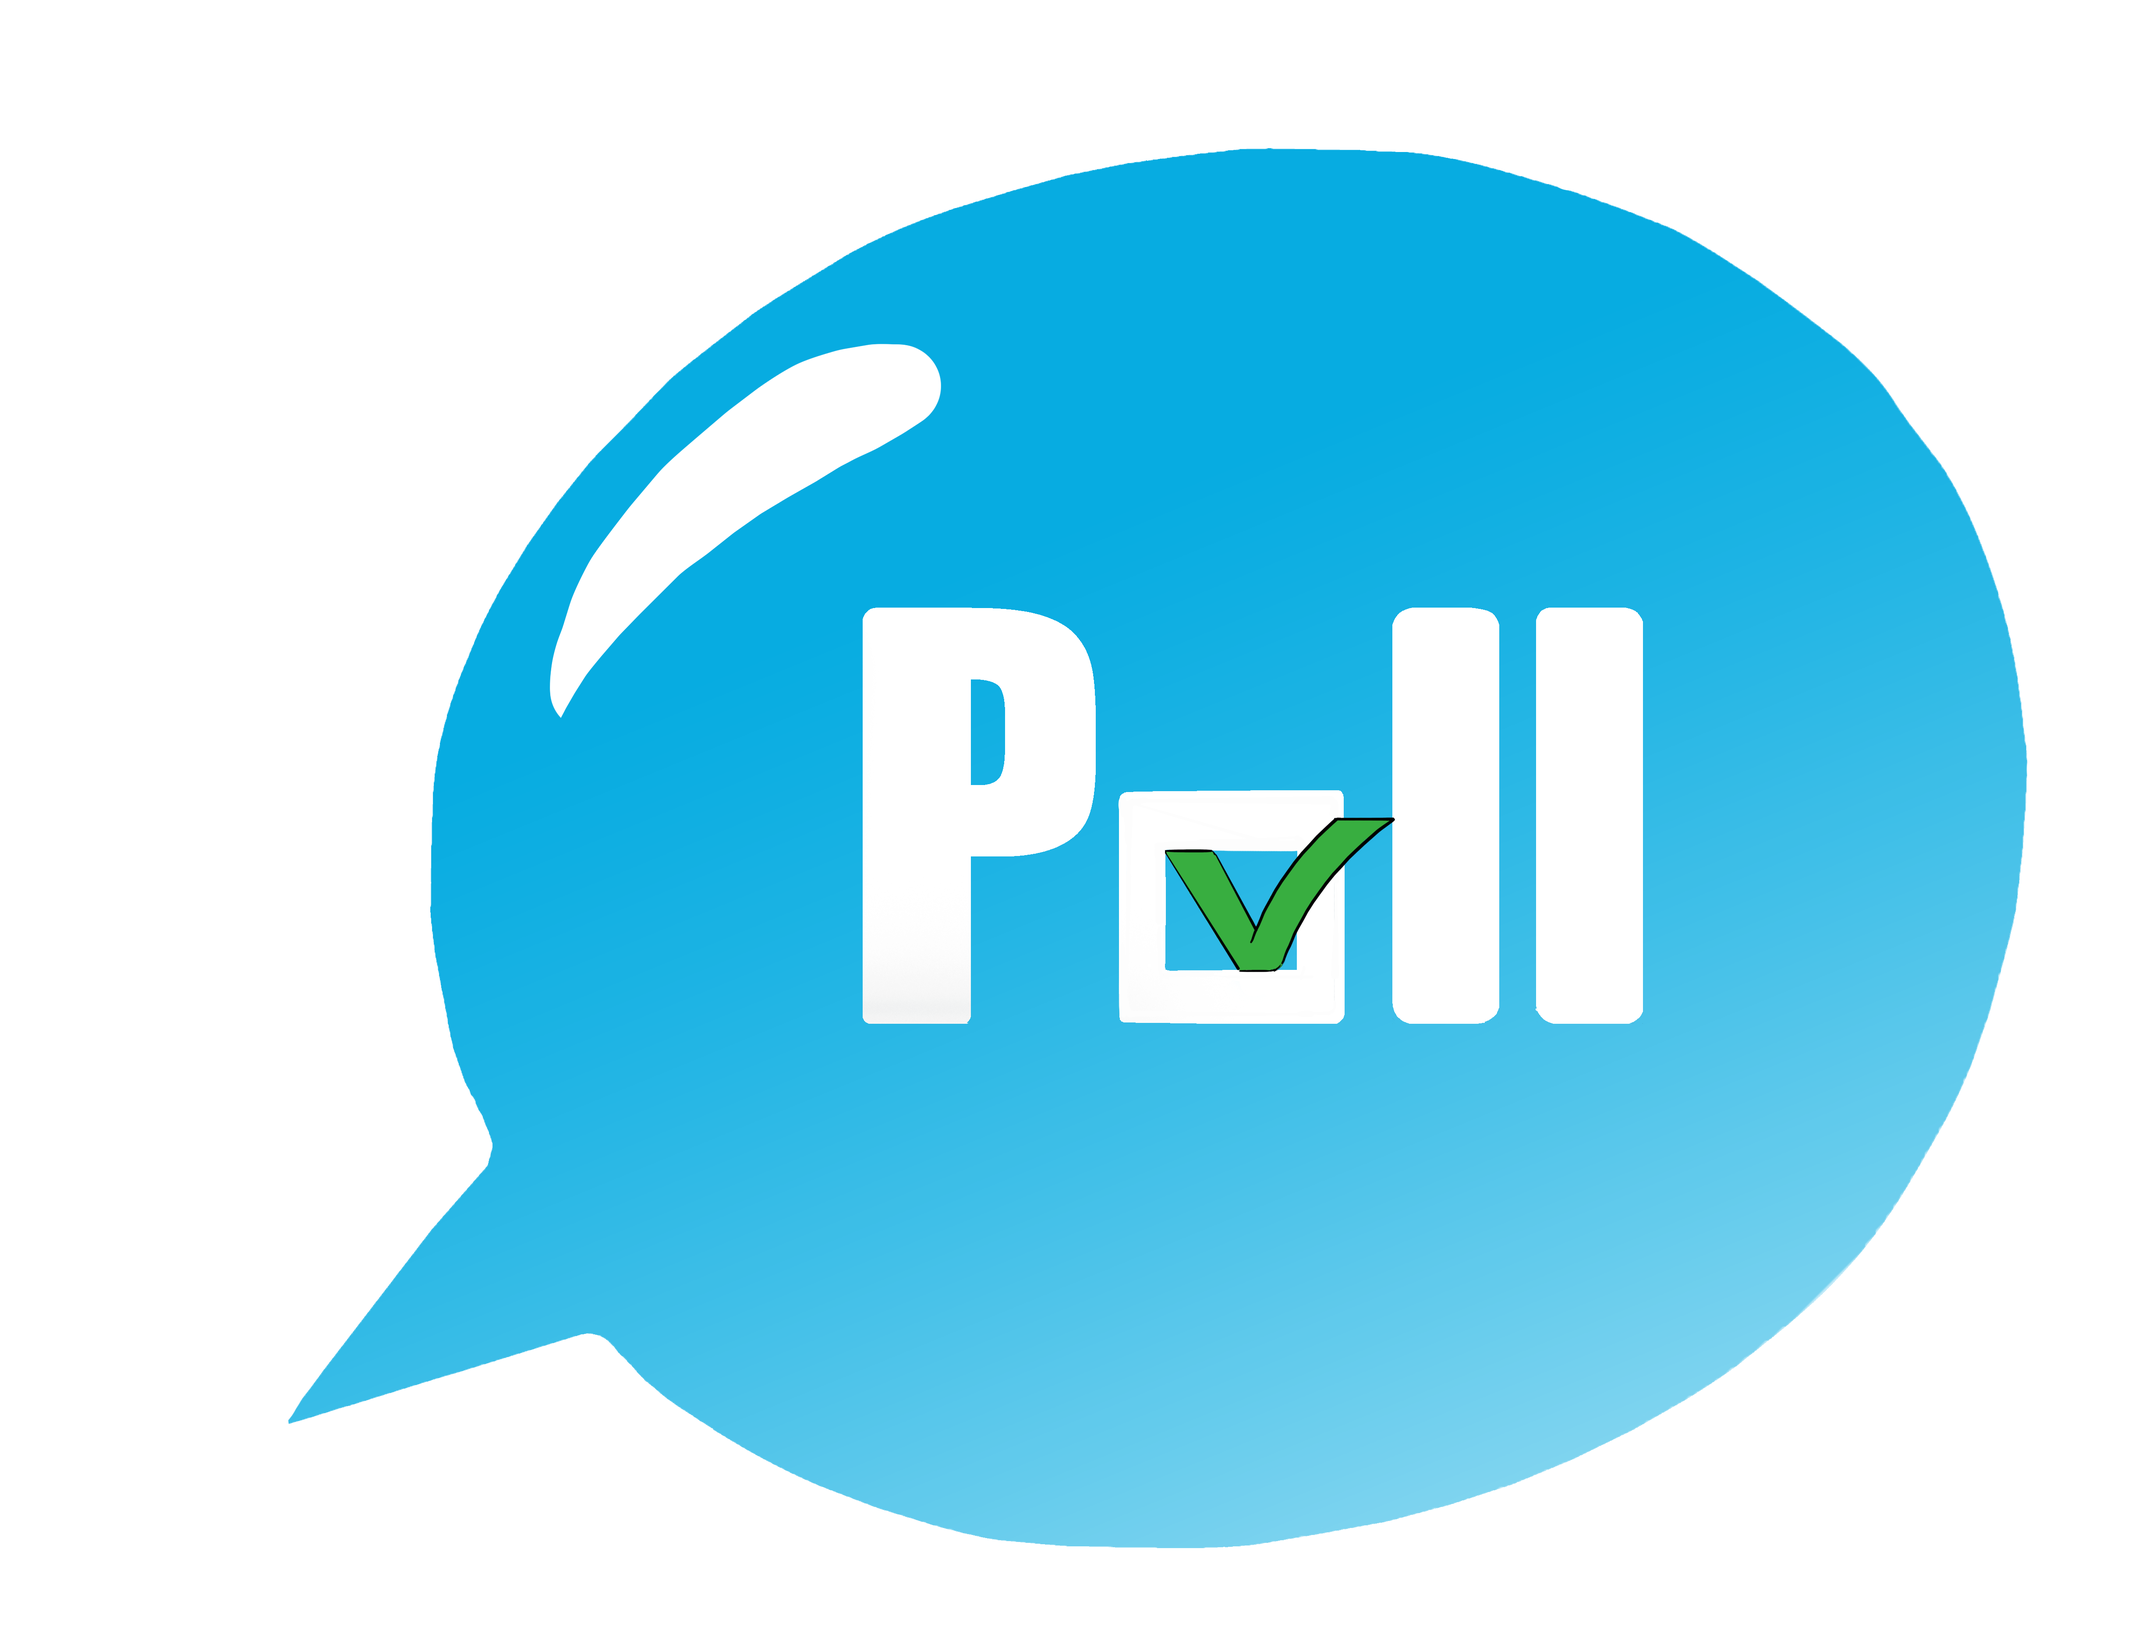
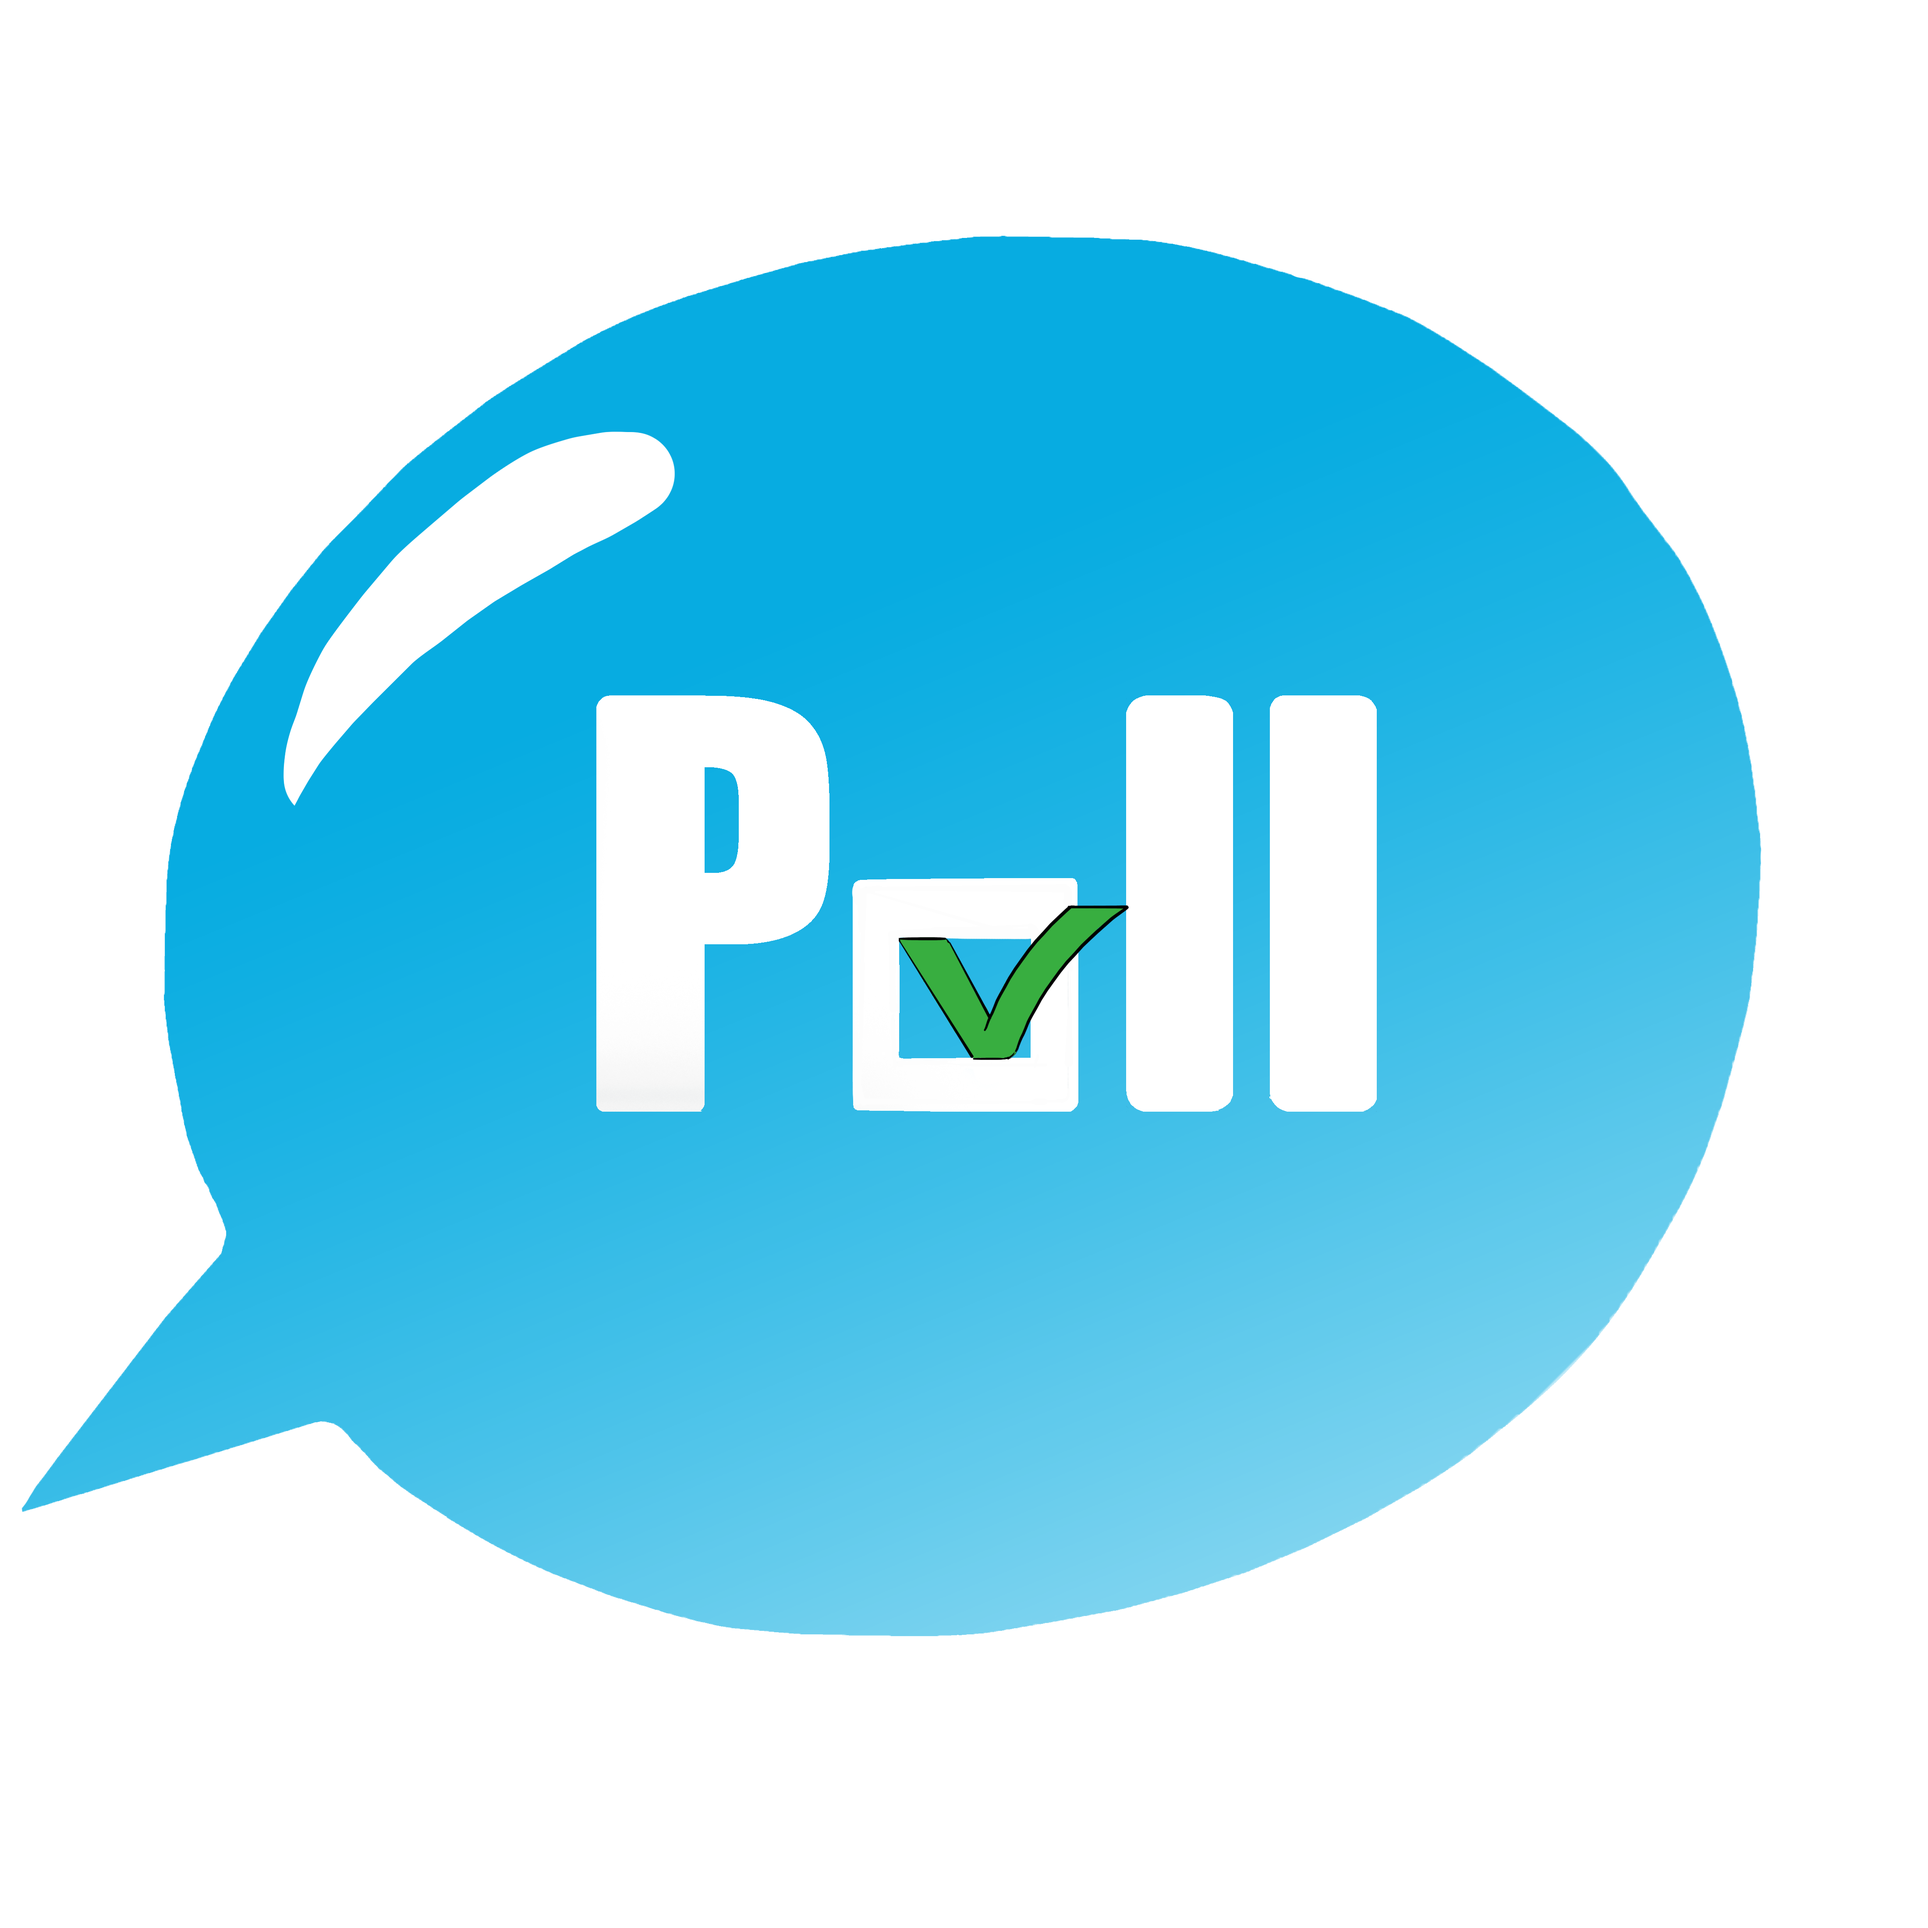
Modif css menu
Ca ressemble plus à la maquette, mais modification nécessaire dans le
css de la page paramètre

Changed region(s): [[0.0, 0.0937, 0.9652, 0.9682]]

diff --git a/Poll-Web-master/menu.css b/Poll-Web-master/menu.css
@@ -1,11 +1,7 @@
 #title_logo
 {
-    background: -moz-linear-gradient(-45deg, #1e5799 0%, #2989d8 100%, #207cca 100%, #7db9e8 100%); /* FF3.6+ */
-	background: -webkit-gradient(linear, left top, right bottom, color-stop(0%,#1e5799), color-stop(100%,#2989d8), color-stop(100%,#207cca), color-stop(100%,#7db9e8)); /* Chrome,Safari4+ */
-	background: -webkit-linear-gradient(-45deg, #1e5799 0%,#2989d8 100%,#207cca 100%,#7db9e8 100%); /* Chrome10+,Safari5.1+ */
-	background: -o-linear-gradient(-45deg, #1e5799 0%,#2989d8 100%,#207cca 100%,#7db9e8 100%); /* Opera 11.10+ */
-	background: -ms-linear-gradient(-45deg, #1e5799 0%,#2989d8 100%,#207cca 100%,#7db9e8 100%); /* IE10+ */
-	background: linear-gradient(135deg, #1e5799 0%,#2989d8 100%,#207cca 100%,#7db9e8 100%); /* W3C */
+    background-image: url(background_menu.png);
+    background-size: contain;
 }
 
 #logo

diff --git a/Poll-Web-master/menu.php b/Poll-Web-master/menu.php
@@ -35,7 +35,7 @@
         
         echo'
             <div id="title_logo">
-                <img src="../poll.png" width="10%" height="10%" id="logo"/>
+                <img src="../poll_redux.png" width="10%" height="10%" id="logo"/>
                 '.$plus.'
             </div>
             <div id="menu">
